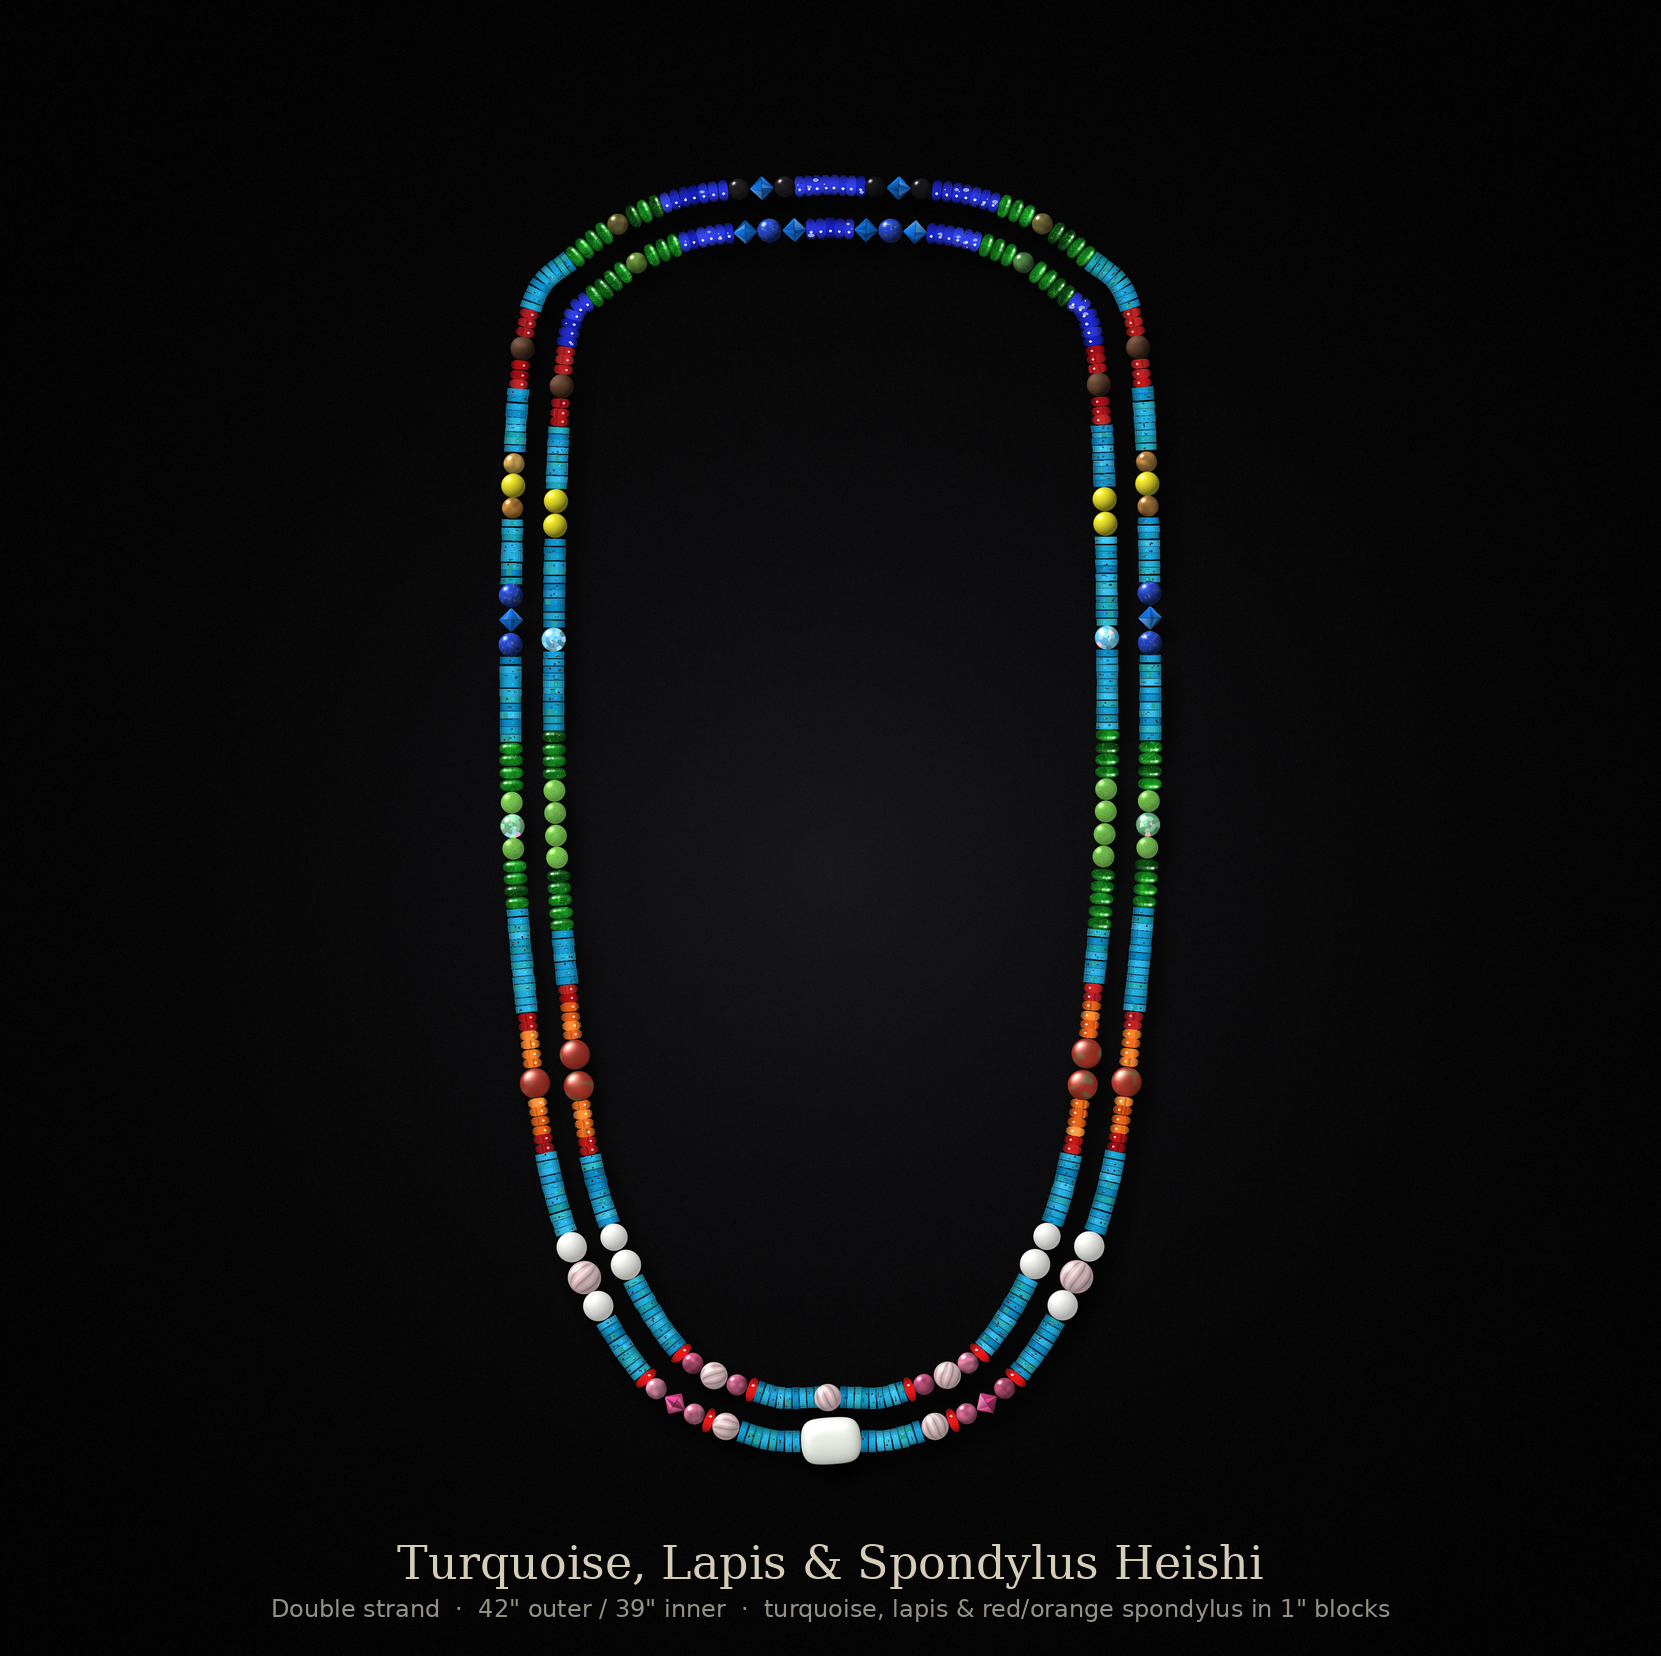
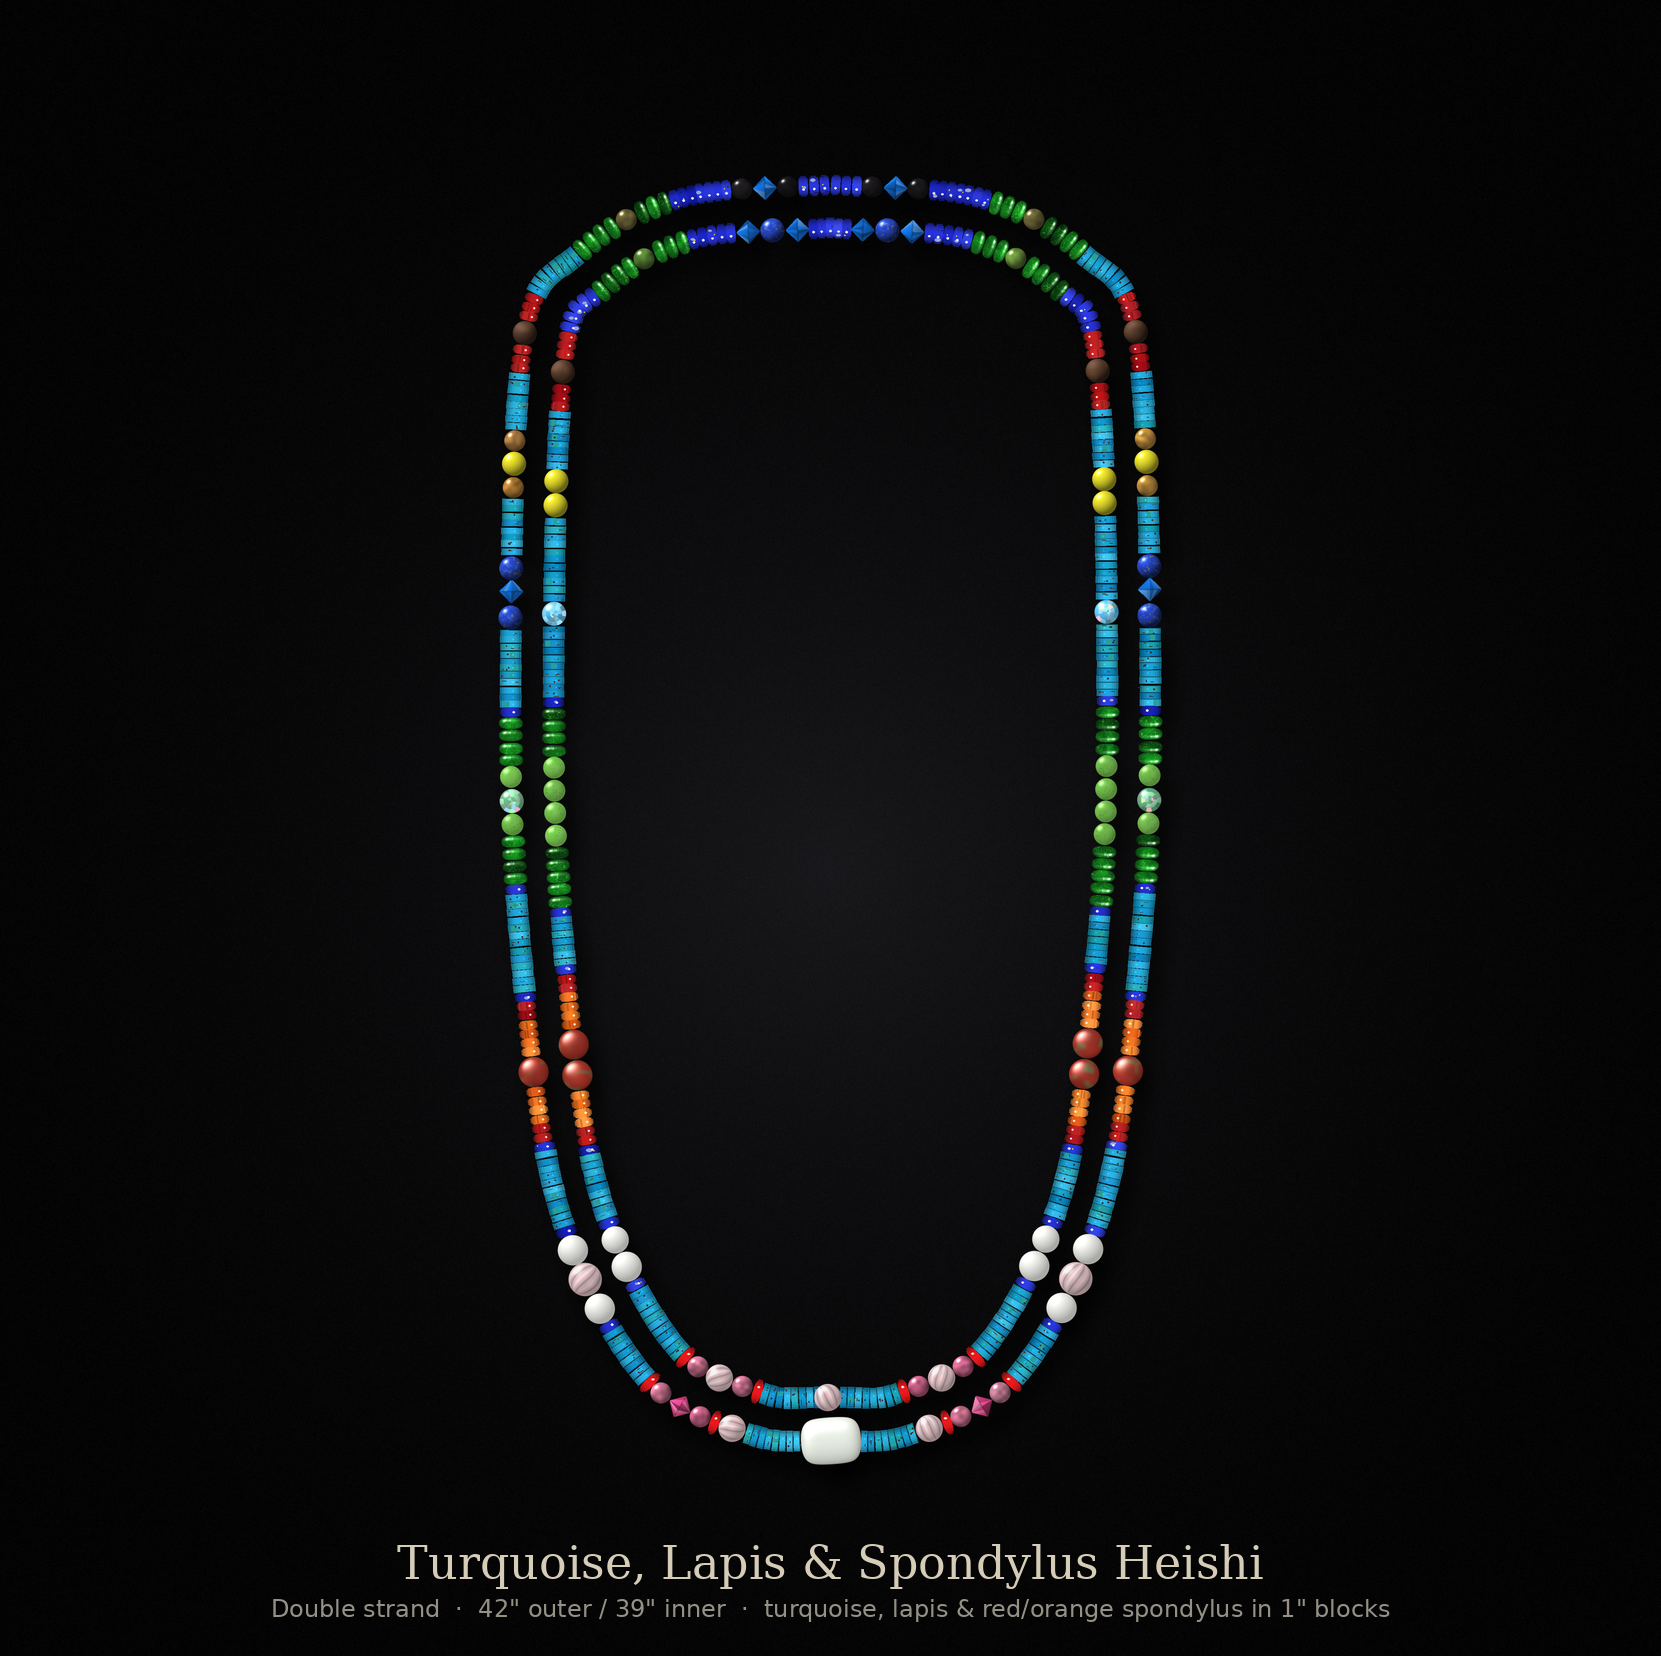
Version 5: lapis heishi frames on green, red-orange and white bands
Claude-Session: https://claude.ai/code/session_014be1vF4Rdf8sv9Si75Gudv

Changed region(s): [[0.2763, 0.0924, 0.7062, 0.8931]]

diff --git a/necklace/render_necklace.py b/necklace/render_necklace.py
@@ -931,7 +931,7 @@ if V4:
     SZ = {"diop": PER_L_, "jade": 7.3, "gglass": 8.0, "gtourm": 7.0, "olive": 7.0, "tan": 7.0, "pink": 7.0,
           "black": 7.0, "yellow": 8.0, "opal10": 10.0, "opal9": 9.0, "rq9": 9.0, "rq11": 11.0, "ajas": 10.0,
           "mook": 8.0, "rbic": 8.0, "sapph": 8.0, "lapis8": 8.0, "blueglass": 8.0, "red": 3.0, "orange": 3.0,
-          "redglass": 3.0, "focal": 19.7}
+          "redglass": 3.0, "focal": 19.7, "lapisH": 3.0}
     def F(core, flank, n):                     # wrap a core with n flank beads split either side
         a = n // 2; b = n - a
         return [flank] * a + core + [flank] * b
@@ -948,6 +948,9 @@ if V4:
             (["opal10", "rq11", "opal10"],                       ["opal9", "opal10"]),                   # white
             (["redglass", "pink", "rbic", "pink", "redglass", "rq9"], ["redglass", "pink", "rq9", "pink", "redglass"]),  # pink/rose
         ]
+        # frame the green, red-orange and white bands with one lapis heishi at each end, both strands
+        for _bi in (5, 6, 7):
+            BANDS[_bi] = tuple(["lapisH"] + list(b) + ["lapisH"] for b in BANDS[_bi])
     OUTER = [
         F(["olive"], "diop", 6),                                   # G (dark)
         ["tan"],                                                   # Y
